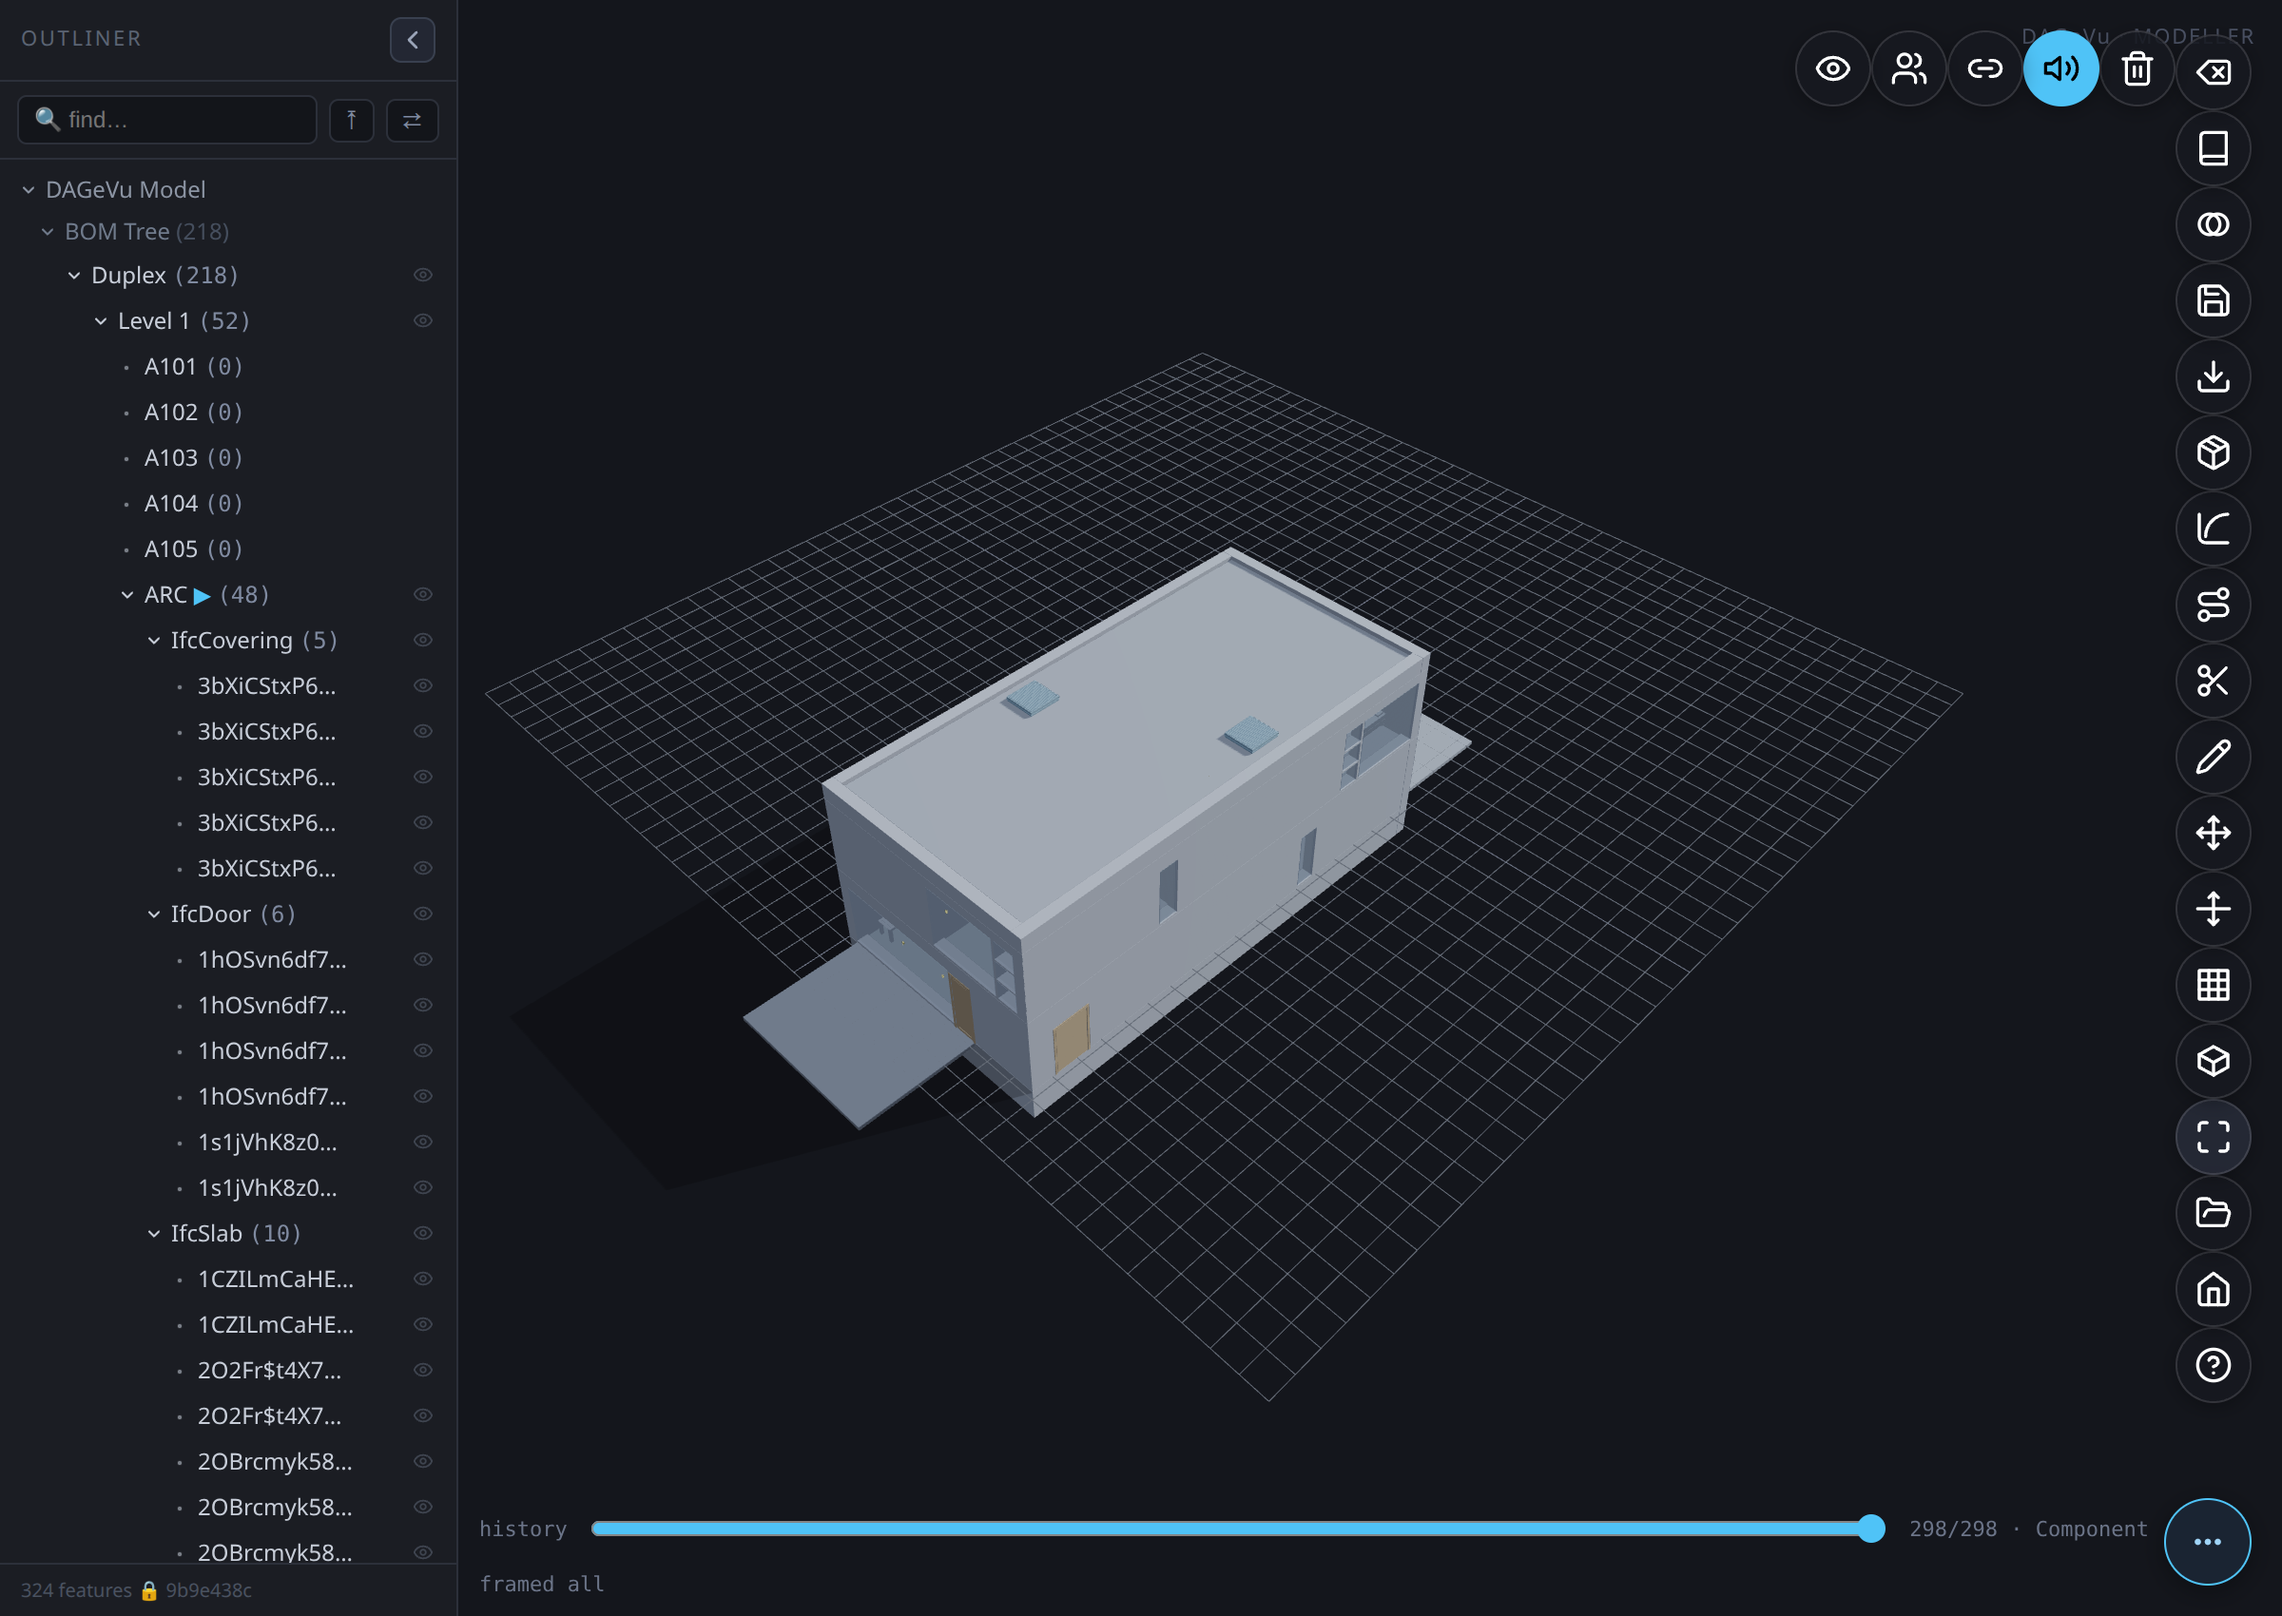
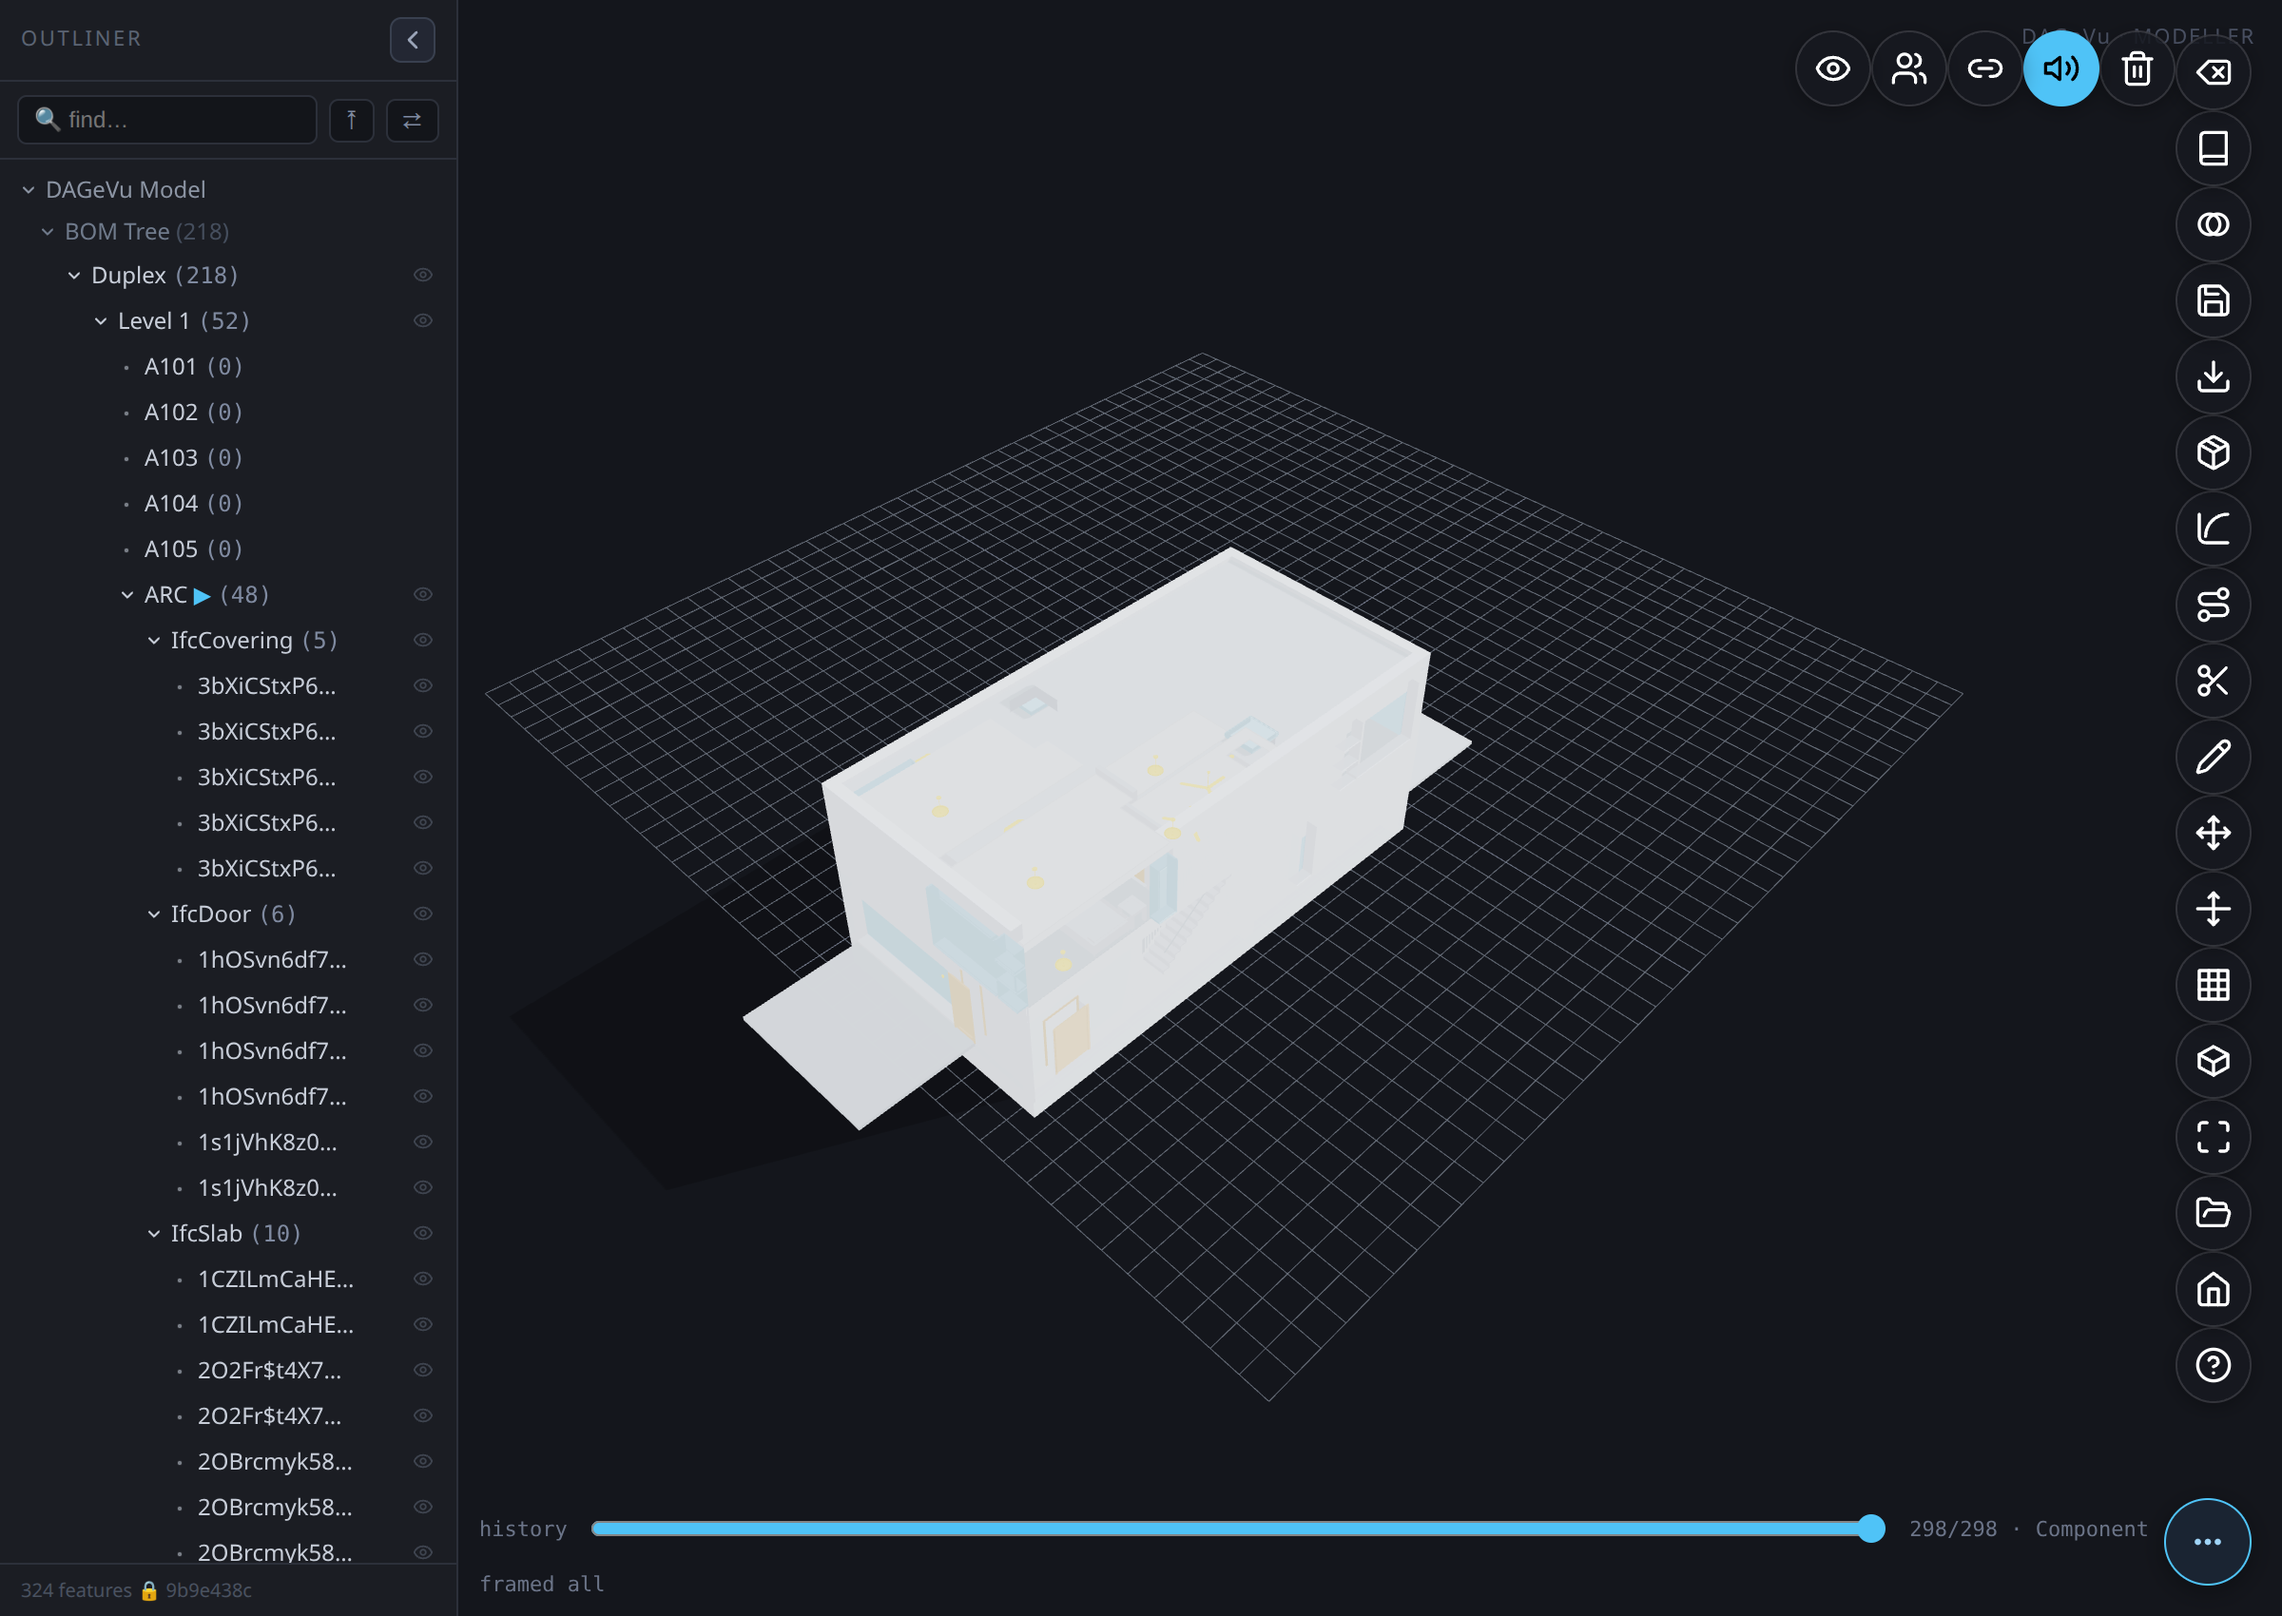
docs(modeller-guide): 3 more glass/visibility fixes — delete-gone, walk X-ray, SampleCastle
User caught these on the live deployed guide (2026-07-13):
- delete-gone.png predated the render-material-parity fix, still showed the flat opaque
  window. Recaptured with a targeted wall pick + whole-building re-fit (see bim-ootb
  test-script commit b7b464f, local only) — same wide establishing shot as before, window
  now visibly see-through.
- walk-fixtures.png: user's own long-standing complaint - the honest "occluded from
  outside" shot showed nothing. Added an X-ray-reveal capture using the Modeller's own
  shipped X-ray feature (window.__xrayReveal) - structure goes near-transparent, all 102
  walked fixtures glow through in discipline colour. Caption rewritten to match: no longer
  apologizes for an empty frame, shows the walk actually landed.
- samplecastle-arc-open.png: also predated the glass fix (2026-07-03), same opaque-window
  signature. Recaptured via the existing smoke_sc.js (unmodified) - now shows real
  transparent glass on SampleCastle's window frames too.

Changed region(s): [[0.3125, 0.3429, 0.6562, 0.7171]]

diff --git a/docs/ModellerGuide.md b/docs/ModellerGuide.md
@@ -341,15 +341,17 @@ it: it places that trade's elements at the **measured cadence** of a real coordi
 runs it can, gates the clashes, and **honestly refuses** when the building has nothing to hang the trade
 on. Nothing is invented — every placement uses a spacing/clearance rule *mined from a real IFC model*.
 
-![Walk · ELEC — 102 electrical fixtures placed across 19/21 real spaces in the Duplex; the building reads as one clean, well-formed shell from outside because every fixture landed correctly INSIDE the envelope](img/modeller/walk-fixtures.png)
+![Walk · ELEC, X-ray reveal — 102 electrical fixtures placed across 19/21 real spaces in the Duplex; structure goes near-transparent glass and every fixture glows in its discipline colour through the shell, on both floors](img/modeller/walk-fixtures.png)
 
-*Why you can't see any fixtures in this shot:* a real electrical outlet or light lives inside a room, not
-poking through an exterior wall — from outside the sealed shell it's naturally occluded, same as it would
-be in a real building. This is the corrected view (2026-07-12): a previous version of this pipeline had a
-containment bug where roughly a quarter of placements landed outside the building's own walls — fixed
-(mesh-recovered true-midpoint host binding) and independently verified 5 separate ways (containment count,
-real-oracle walk-back match, measured-pattern conformance, wall-clearance margin, mirror-symmetry residual
-on the Duplex's own A/B twin layout) before this screenshot was retaken. The fixture mesh itself is still a
+A normal (non-X-ray) view of this same walk is honestly near-empty: a real electrical outlet or light
+lives inside a room, not poking through an exterior wall, so from outside the sealed shell it's naturally
+occluded — same as it would be in a real building. Tap **X-ray** (or press `X`) to see the walk actually
+landed, as captured here: structure fades to near-transparent glass and the fixtures glow through it in
+their discipline colour, room by room. This is the corrected placement too (2026-07-12): a previous
+version of this pipeline had a containment bug where roughly a quarter of placements landed outside the
+building's own walls — fixed (mesh-recovered true-midpoint host binding) and independently verified 5
+separate ways (containment count, real-oracle walk-back match, measured-pattern conformance, wall-clearance
+margin, mirror-symmetry residual on the Duplex's own A/B twin layout). The fixture mesh itself is still a
 box stand-in sized to each class's own measured dimensions, not a finished fixture model — a deliberate,
 honest choice: guessing at a fixture's real shape is exactly what this project's non-invent rule forbids.
 
